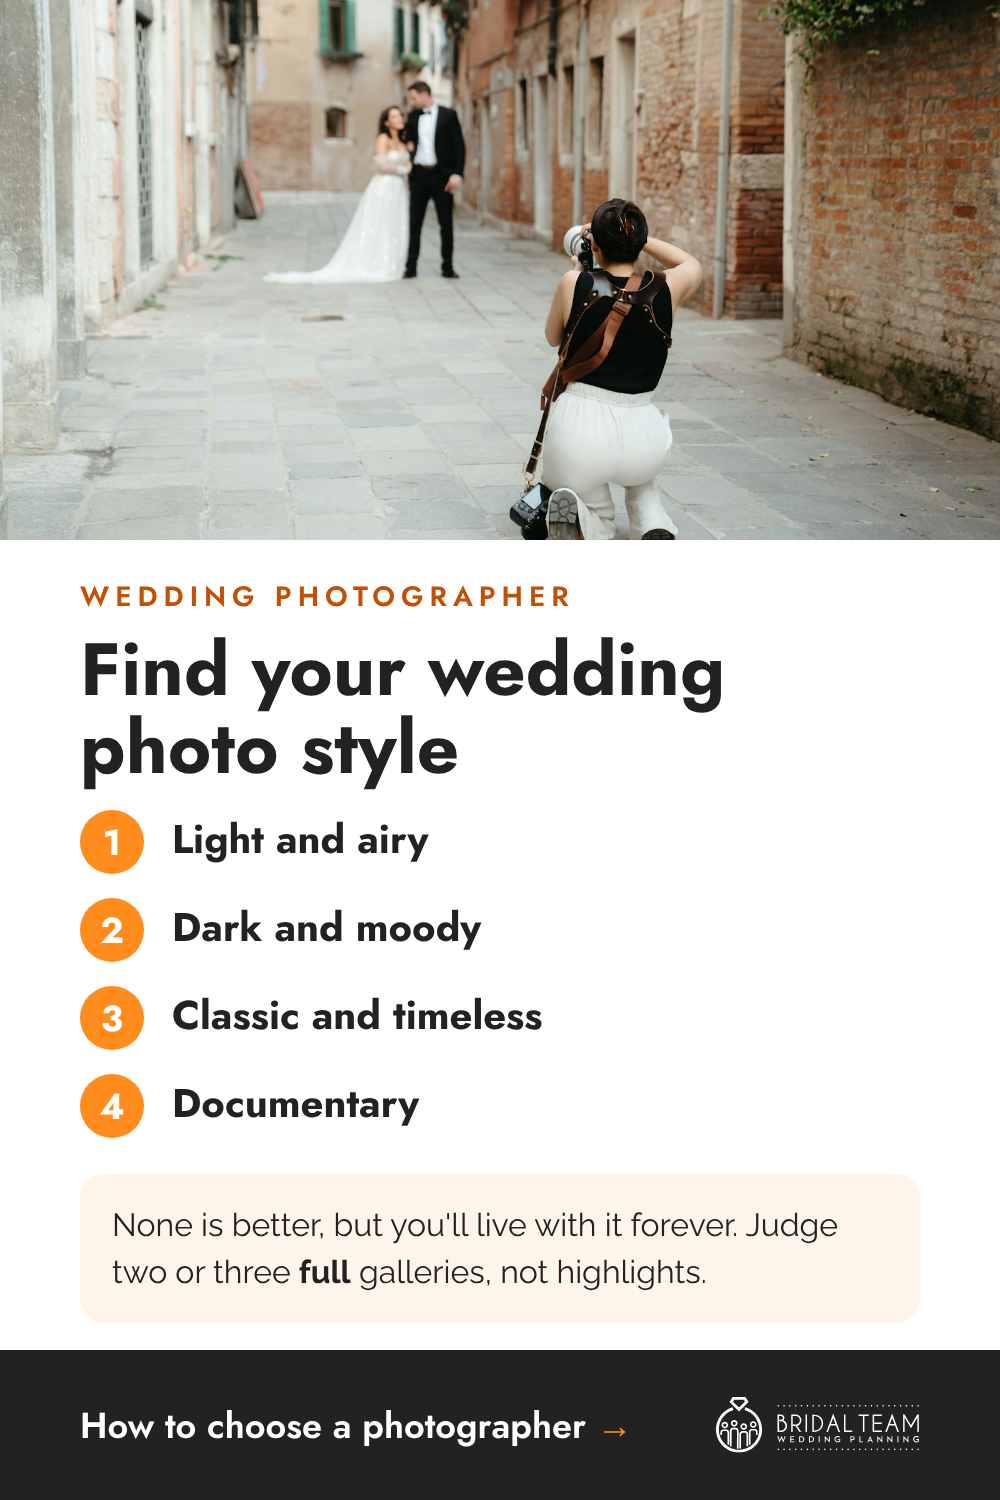
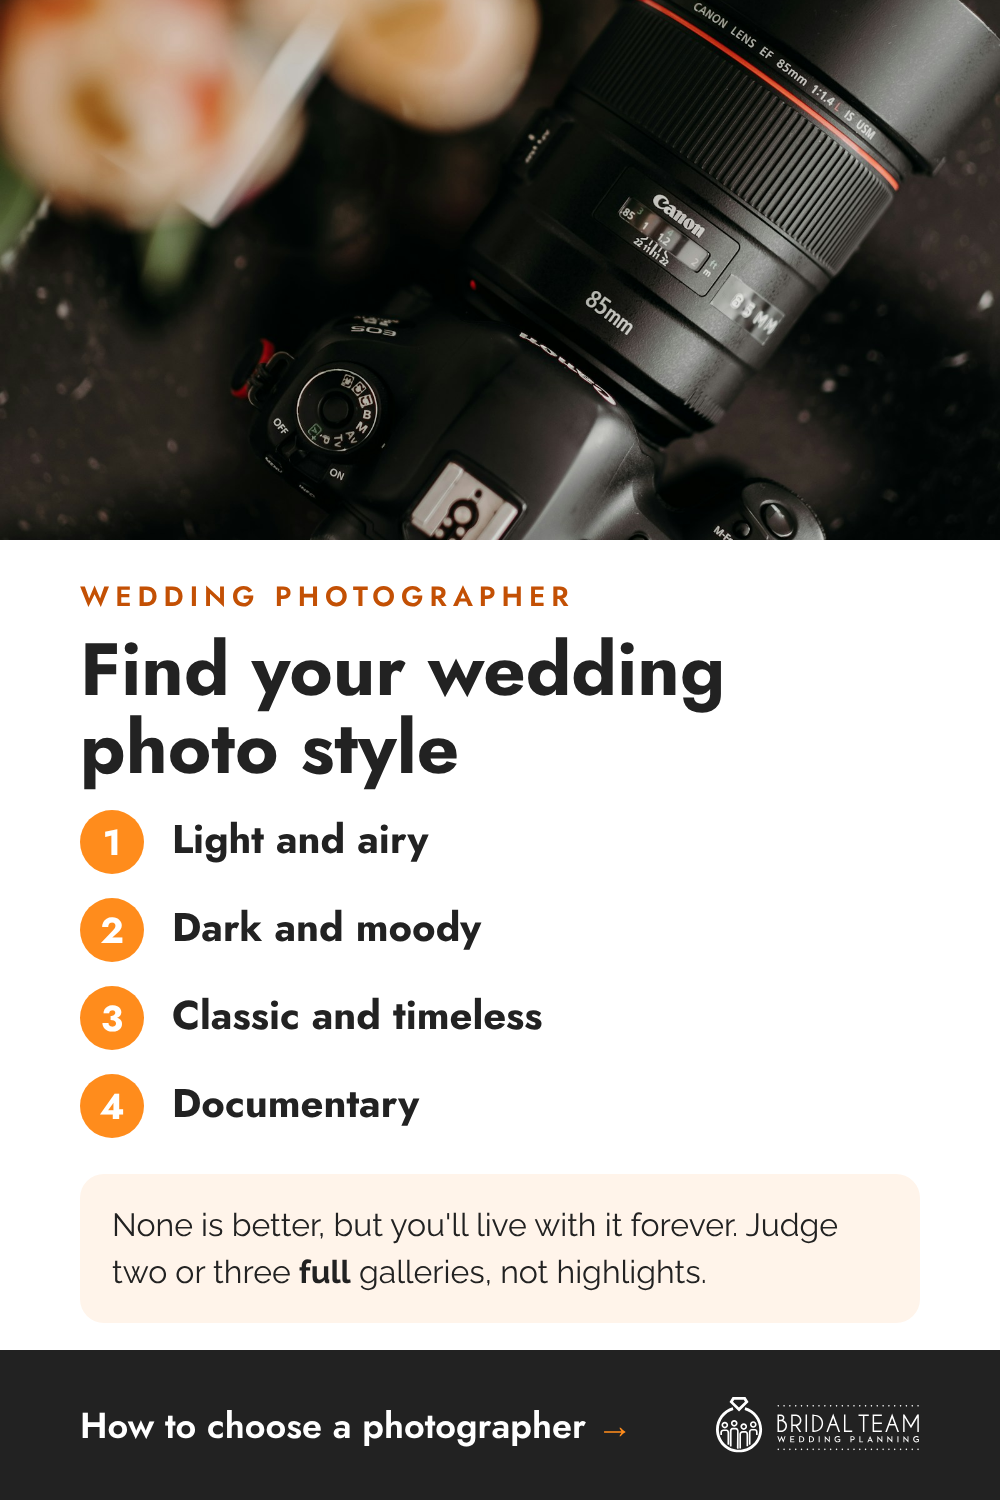
Keep identifiable faces off the pins
Replace the batch 6 photographer pin's photo with a camera shot, and add the
owner's no-faces rule to the photo reference.

Claude-Session: https://claude.ai/code/session_018KZiW9vjFRpSx2pwigCHew

diff --git a/marketing/pinterest/2026-10-30-batch-6.md b/marketing/pinterest/2026-10-30-batch-6.md
@@ -77,13 +77,14 @@ wedding, vendor or venue, and the copy doesn't name any place pictured.
   None is better, but you'll live with it forever, so pick the one you
   genuinely love. Ask to see two or three complete weddings, not just a
   highlight reel, to check they're consistent.
-- **Alt text:** A photographer kneeling to photograph a couple in a narrow
-  street, above a list of four wedding photography styles.
+- **Alt text:** A camera with a long lens beside pink flowers, above a list
+  of four wedding photography styles.
 - **Link:**
   `https://bridalteam.com/guides/how-to-choose-a-wedding-photographer?utm_source=pinterest&utm_medium=social&utm_content=photo-styles`
 - **Image:** `03-wedding-photography-styles.png`
-- **Photo:** https://unsplash.com/photos/photographer-captures-couple-in-a-narrow-venetian-alleyway-kao25pZxpiM,
-  by Micah & Sammie Chaffin, Unsplash License.
+- **Photo:** https://unsplash.com/photos/black-nikon-dslr-camera-on-black-table-JRrkT430JLY,
+  by Patrick Langwallner, Unsplash License. (This replaced a photo showing a
+  couple's faces, under the no-faces rule.)
 
 ## Pin 4: Florist consultation checklist
 

diff --git a/plugins/bridalteam/skills/social-graphics/references/photos.md b/plugins/bridalteam/skills/social-graphics/references/photos.md
@@ -51,9 +51,11 @@ page instead (it shows the `images.unsplash.com/photo-<id>` URL, the
 photographer, and whether it's Unsplash+), then download from
 images.unsplash.com.
 
-Avoid photos where an identifiable person is the focus of a topic that could
-embarrass them, such as costs or etiquette mistakes. Details, venues, flowers
-and tables are safest.
+**No identifiable faces (the owner's rule, 2026-10-30).** Don't use any photo
+where a person's face can be recognized, even small or in the background.
+Hands, a bouquet held at the waist, or people seen from behind or blurred
+past recognition are fine. Use details, venues, flowers, tables and gear.
+Check each photo at full size before you use it, not just the thumbnail.
 
 ## Getting a photo onto the machine
 
